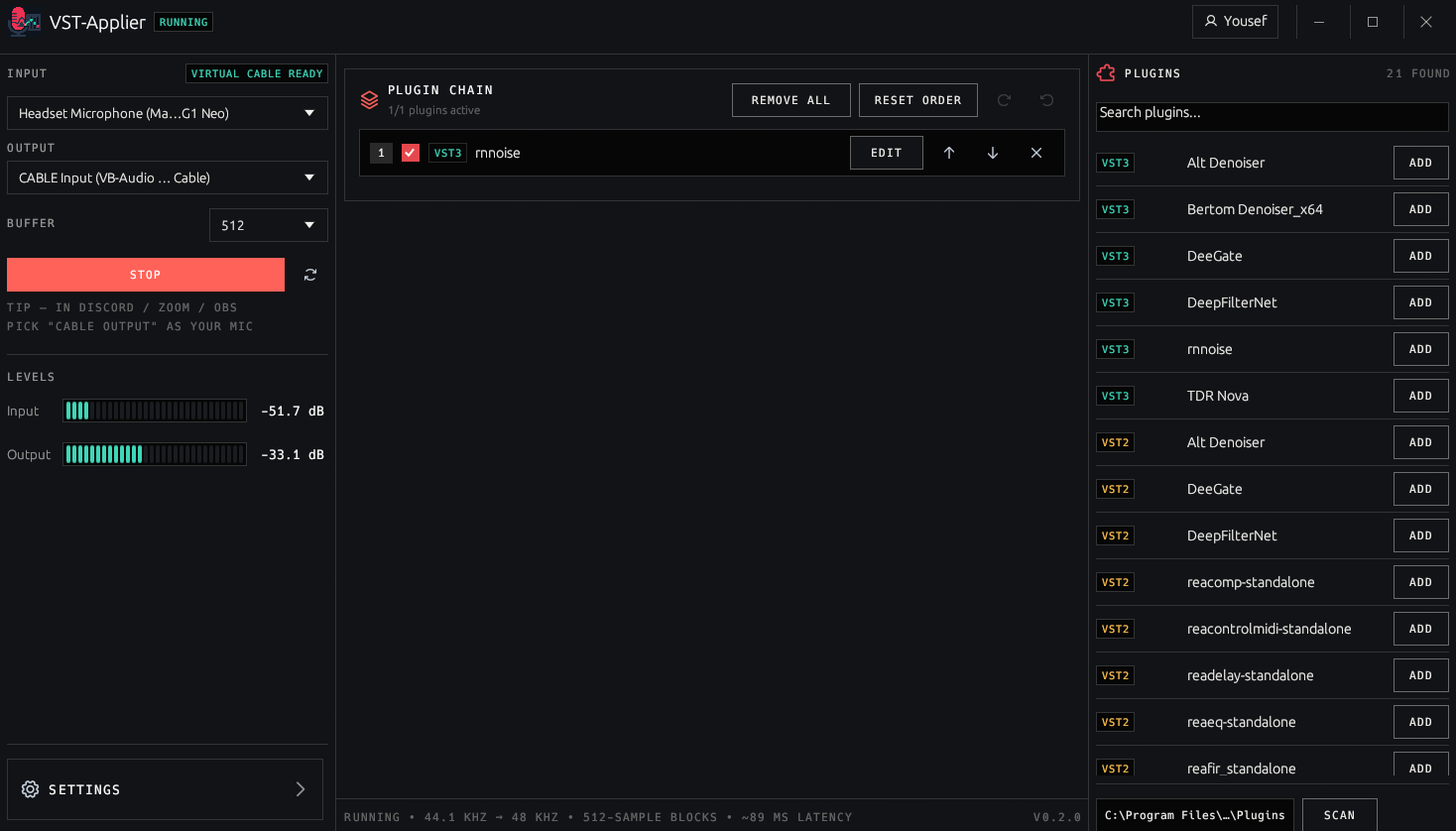
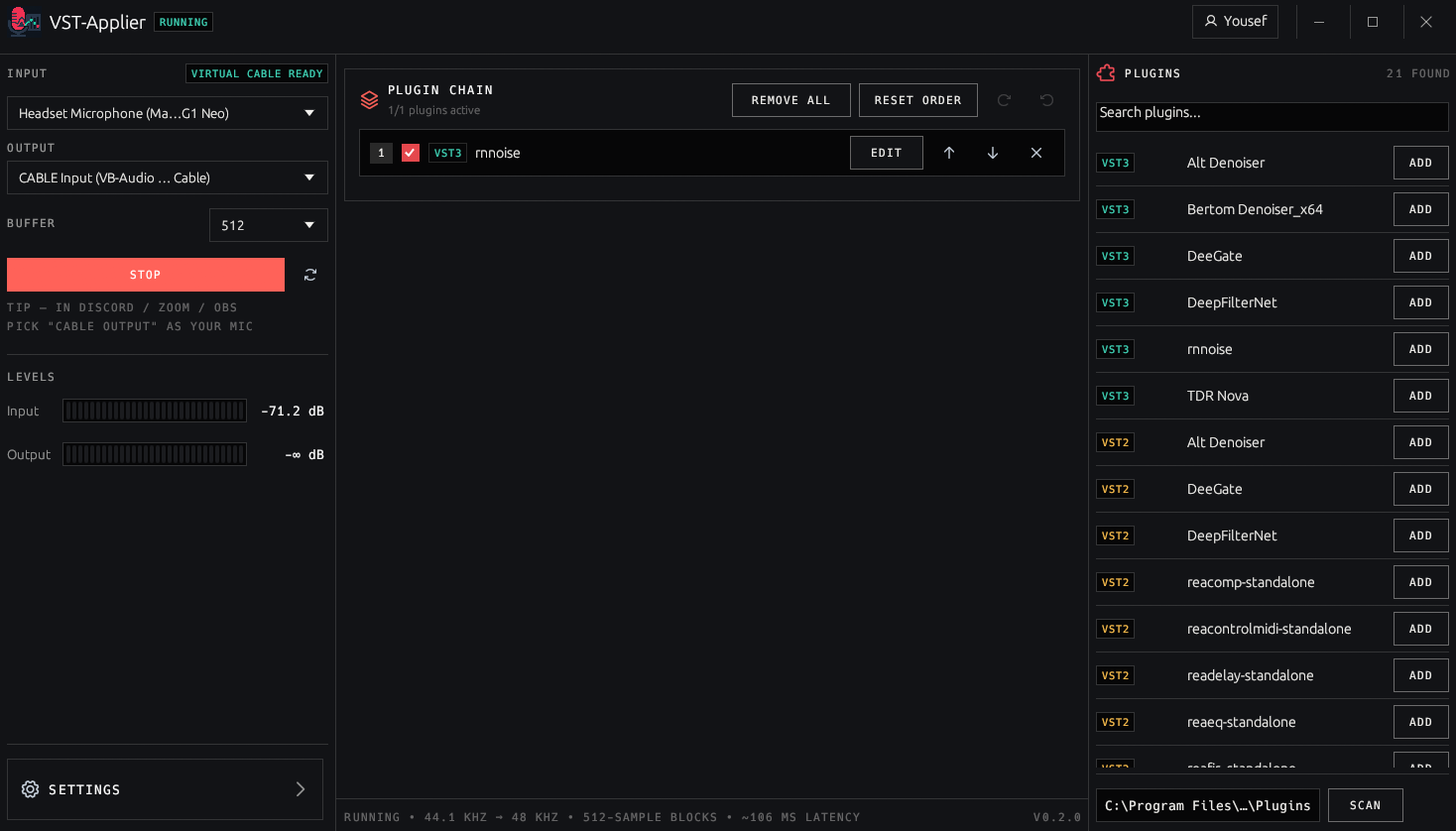
ui: folder chip back to standard 34px control height with 12.5px path text; richer path display when it fits

diff --git a/src/main.rs b/src/main.rs
@@ -2127,14 +2127,14 @@ impl eframe::App for App {
                                     ui.painter()
                                         .layout_no_wrap(
                                             t.to_string(),
-                                            egui::FontId::monospace(13.0),
+                                            egui::FontId::monospace(12.5),
                                             theme::INK,
                                         )
                                         .size()
                                         .x
                                 };
                                 let mut s = path.clone();
-                                if measure(&s) > inner_w - 8.0 {
+                                if measure(&s) > inner_w - 4.0 {
                                     let parts: Vec<&str> = s.split('\\').collect();
                                     if parts.len() >= 3 {
                                         let leaf = parts[parts.len() - 1];
@@ -2146,7 +2146,7 @@ impl eframe::App for App {
                                                 parts[..head_n].join("\\");
                                             let cand =
                                                 format!("{head}\\…\\{leaf}");
-                                            if measure(&cand) <= inner_w - 8.0 {
+                                            if measure(&cand) <= inner_w - 4.0 {
                                                 s = cand;
                                                 break;
                                             }
@@ -2156,14 +2156,14 @@ impl eframe::App for App {
                                 s
                             };
                             ui.allocate_ui_with_layout(
-                                egui::vec2(inner_w, 36.0),
+                                egui::vec2(inner_w, 32.0),
                                 egui::Layout::left_to_right(egui::Align::Center),
                                 |ui| {
                                     ui.add(
                                         egui::Label::new(
                                             egui::RichText::new(&display)
                                                 .monospace()
-                                                .size(13.0)
+                                                .size(12.5)
                                                 .color(theme::INK),
                                         )
                                         .truncate()
@@ -2190,12 +2190,11 @@ impl eframe::App for App {
                     }
                     let fscan = ui
                         .add_enabled_ui(!self.scanning, |ui| {
-                            theme::button_sized(
+                            theme::button(
                                 ui,
                                 if self.scanning { "…" } else { "Scan" },
                                 theme::BtnKind::Secondary,
                                 76.0,
-                                38.0,
                             )
                         })
                         .inner
